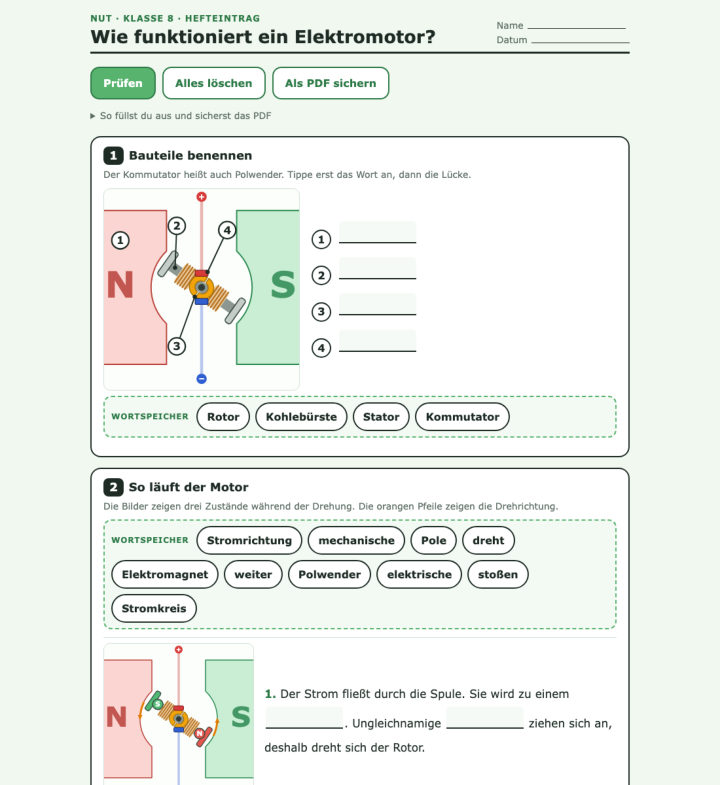
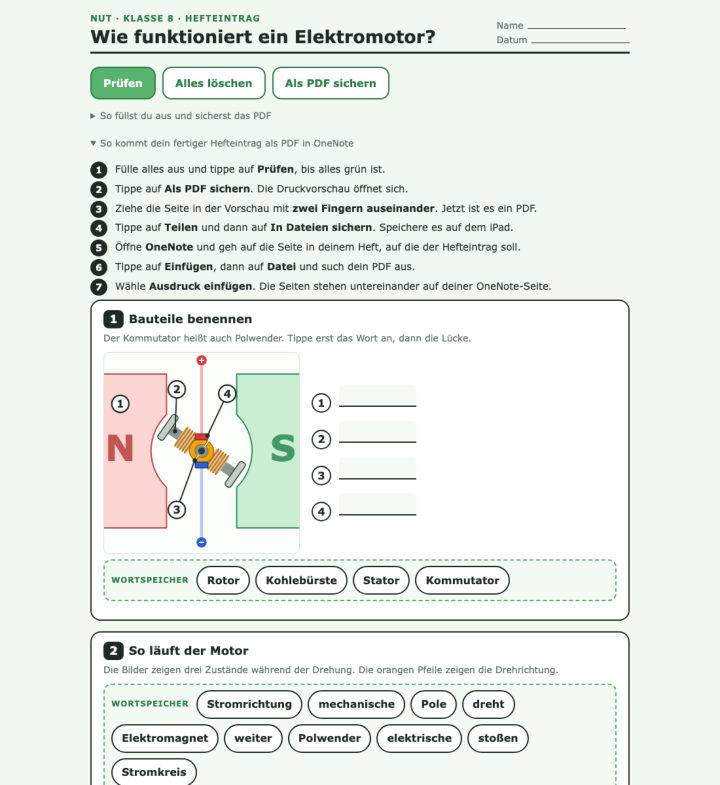
Add OneNote PDF steps to interactive worksheet

diff --git a/material/lueckentext.html b/material/lueckentext.html
@@ -24,6 +24,9 @@ h1{font-size:27px;line-height:1.15;margin:2px 0 0}
 #ergebnis{font-weight:bold;font-size:16px}
 details.hilfe{font-size:14px;color:var(--muted);margin:0 0 10px}
 details.hilfe summary{cursor:pointer;min-height:32px}
+details.hilfe .schritte{margin:8px 0 4px;padding-left:0;list-style:none;counter-reset:s;display:grid;gap:8px;color:var(--ink);font-size:15px;line-height:1.45}
+details.hilfe .schritte li{counter-increment:s;position:relative;padding-left:38px}
+details.hilfe .schritte li::before{content:counter(s);position:absolute;left:0;top:-1px;width:26px;height:26px;border-radius:50%;background:var(--ink);color:#fff;display:grid;place-items:center;font-weight:bold;font-size:14px}
 .aufgabe{background:var(--paper);border:2px solid var(--ink);border-radius:16px;padding:14px 18px 16px;margin:0 0 16px}
 #a1,#a3{break-inside:avoid;page-break-inside:avoid}
 .zeile,.bank{break-inside:avoid;page-break-inside:avoid}
@@ -99,7 +102,17 @@ body.sol .toolbar, body.sol .bank, body.sol details.hilfe{display:none}
   </div>
   <details class="hilfe"><summary>So füllst du aus und sicherst das PDF</summary>
     <p>Tippe ein Wort im Wortspeicher an, es leuchtet orange. Dann tippe auf die Lücke, in die es gehört. Tippst du eine ausgefüllte Lücke an, wird sie wieder leer. Mit "Prüfen" siehst du, was stimmt (grün) und was nicht (rot).</p>
-    <p>PDF auf dem iPad: "Als PDF sichern" antippen, in der Druckvorschau mit zwei Fingern auf die Seite aufziehen, dann auf Teilen tippen und "In Dateien sichern" wählen. In OneNote: Einfügen, Datei, Ausdruck einfügen.</p>
+  </details>
+  <details class="hilfe" open><summary>So kommt dein fertiger Hefteintrag als PDF in OneNote</summary>
+    <ol class="schritte">
+      <li>Fülle alles aus und tippe auf <b>Prüfen</b>, bis alles grün ist.</li>
+      <li>Tippe auf <b>Als PDF sichern</b>. Die Druckvorschau öffnet sich.</li>
+      <li>Ziehe die Seite in der Vorschau mit <b>zwei Fingern auseinander</b>. Jetzt ist es ein PDF.</li>
+      <li>Tippe auf <b>Teilen</b> und dann auf <b>In Dateien sichern</b>. Speichere es auf dem iPad.</li>
+      <li>Öffne <b>OneNote</b> und geh auf die Seite in deinem Heft, auf die der Hefteintrag soll.</li>
+      <li>Tippe auf <b>Einfügen</b>, dann auf <b>Datei</b> und such dein PDF aus.</li>
+      <li>Wähle <b>Ausdruck einfügen</b>. Die Seiten stehen untereinander auf deiner OneNote-Seite.</li>
+    </ol>
   </details>
 
   <section class="aufgabe" id="a1">
